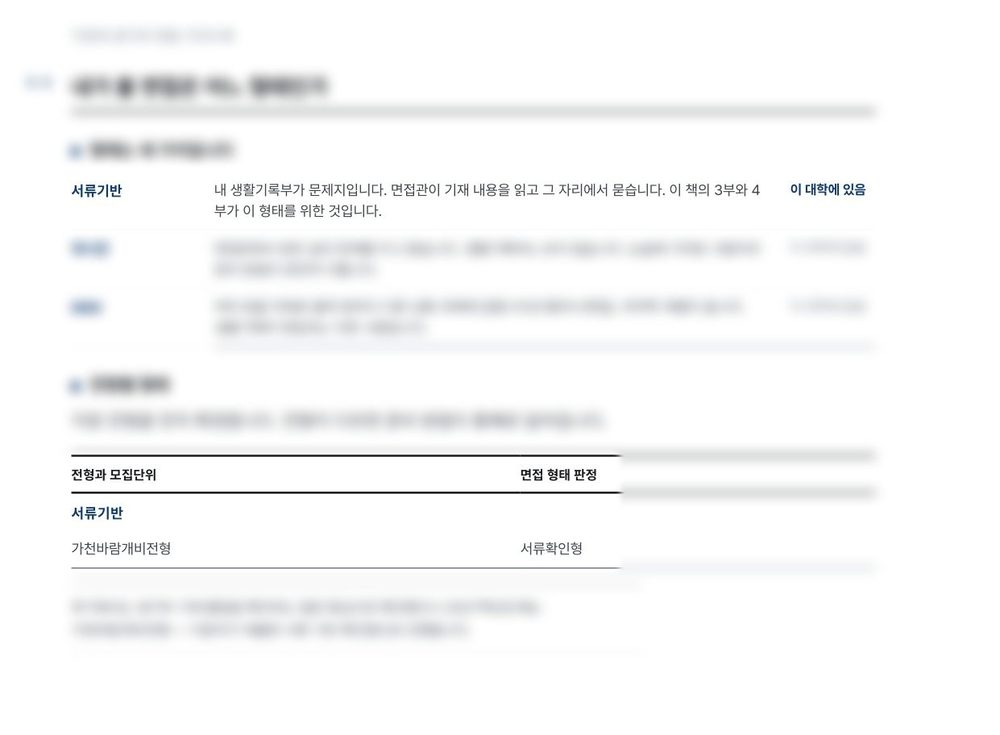
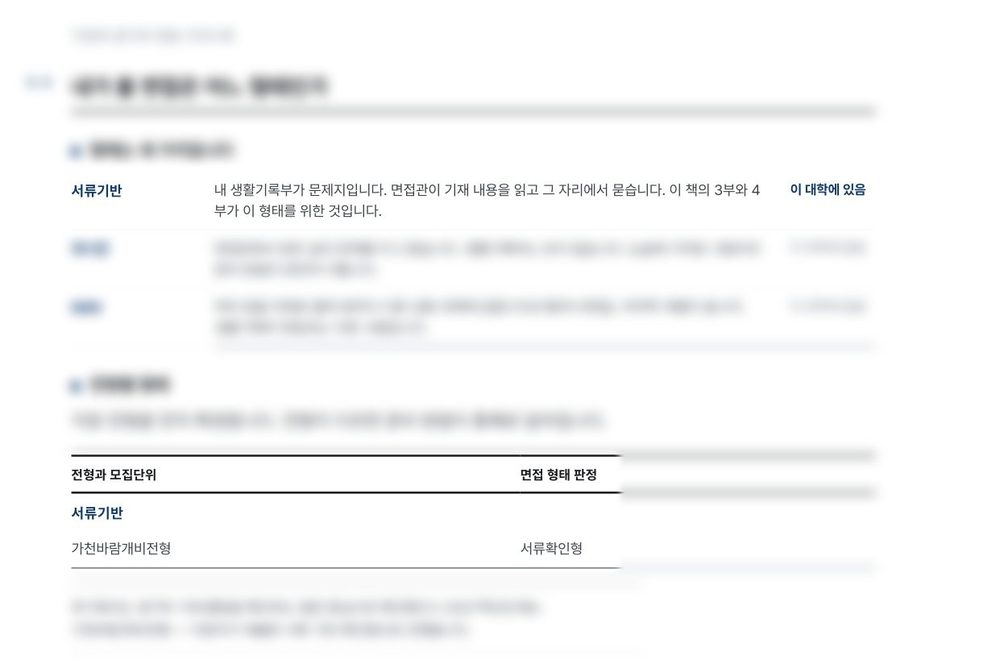
가이드북 소개 면 critic P2 수리: 배지를 선명 칸 오른쪽 바깥으로, 1·3·5부 면 열 7fr, 흐림 사유 캡션, 1부 크롭 0.47, 마무리 표지 확대, 死 CSS 제거 (빌드 4d42f90bccd9258a)

diff --git a/programs/guidebook.html b/programs/guidebook.html
@@ -90,7 +90,6 @@ p{max-width:var(--measure);color:var(--body)}
 
 /* 히어로 */
 .hero{position:relative;overflow:hidden;border-bottom:var(--rule)}
-.hero .bg{position:absolute;inset:0;width:100%;height:100%;object-fit:cover;object-position:right center}
 .hero::after{content:"";position:absolute;inset:0;background:linear-gradient(90deg,var(--paper) 0%,rgba(244,239,227,.97) 36%,rgba(244,239,227,.6) 56%,rgba(244,239,227,.06) 100%)}
 .hero .wrap{position:relative;z-index:2;display:grid;grid-template-columns:minmax(0,1.05fr) minmax(0,1fr);gap:var(--s6);align-items:center;min-height:min(80vh,800px);padding-block:var(--s8)}
 .hero .say{position:relative;z-index:3;padding-right:var(--s4)}
@@ -117,7 +116,6 @@ p{max-width:var(--measure);color:var(--body)}
 .split{display:grid;grid-template-columns:minmax(0,7fr) minmax(0,5fr);gap:var(--s7);align-items:start}
 .split.rev{grid-template-columns:minmax(0,5fr) minmax(0,7fr)}
 .split.rev .txt{order:2}
-.split img,.split .ph{width:100%;border-radius:var(--r-md)}
 .forms{display:grid;grid-template-columns:repeat(3,minmax(0,1fr));gap:var(--s3);margin-top:var(--s6)}
 .forms li{border:1px solid rgba(244,239,227,.22);border-radius:var(--r-md);padding:var(--s4)}
 .forms h4{font-size:var(--t-h4);margin-bottom:var(--s2)}
@@ -324,6 +322,10 @@ ol.lg{list-style:none;display:grid;gap:var(--s2);padding:0;margin:0}
 .closecovers{display:grid;grid-template-columns:repeat(3,minmax(0,1fr));gap:var(--s3)}
 .closecovers img{width:100%;height:auto;border-radius:2px;box-shadow:0 10px 24px rgba(49,46,46,.35)}
 .close .vis{align-self:center}
+/* critic P2(2026-09-03 v4): 비rev 부도 실물 면 열을 7fr 로(1·3·5부 397→555px). 마무리 표지는 잉크 바탕에서 보이게 */
+@media (min-width:901px){.part:not(.rev) .body{grid-template-columns:minmax(0,7fr) minmax(0,5fr)}}
+.closecovers{gap:var(--s2)}
+.closecovers img{box-shadow:0 14px 32px rgba(0,0,0,.55);outline:1px solid rgba(239,233,220,.16)}
 </style>
 </head>
 <body>
@@ -462,7 +464,7 @@ ol.lg{list-style:none;display:grid;gap:var(--s2);padding:0;margin:0}
       <div><h2>내 면접은 어느 형태인가</h2><p class="sub">서류기반 | 제시문 | MMI, 전형별 형태 판정</p></div>
     </div>
     <div class="body">
-      <div class="vis rv"><figure class="pgv"><div class="pg"><a href="../assets/photo/gbd/gbd_sample_D.jpg" target="_blank" rel="noopener" aria-label="표본 면 크게 보기"><img src="../assets/photo/gbd/gbd_sample_D.jpg" width="1000" height="735" alt="가천대학교 판 4면 상단, 1부 면접 형태 판정 면. 표시한 2칸만 선명하고 나머지는 흐림" loading="lazy" decoding="async"></a><span class="mk" style="left:5.96%;top:27.08%" aria-hidden="true">1</span><span class="mk" style="left:5.96%;top:69.62%" aria-hidden="true">2</span></div><figcaption><span class="cap">판매본 지면 그대로. 가천대학교 판 4면 상단, 1부 면접 형태 판정 면</span><ol class="lg"><li><span class="n">1</span><p>세 형태 중 서류기반. 정의와 이 대학에 있음 표시</p></li><li><span class="n">2</span><p>전형별 형태 판정표. 가천바람개비전형은 서류확인형</p></li></ol></figcaption></figure></div>
+      <div class="vis rv"><figure class="pgv"><div class="pg"><a href="../assets/photo/gbd/gbd_sample_D.jpg" target="_blank" rel="noopener" aria-label="표본 면 크게 보기"><img src="../assets/photo/gbd/gbd_sample_D.jpg" width="1000" height="664" alt="가천대학교 판 4면 상단, 1부 면접 형태 판정 면. 표시한 2칸만 선명하고 나머지는 흐림" loading="lazy" decoding="async"></a><span class="mk" style="left:90.03%;top:29.96%" aria-hidden="true">1</span><span class="mk" style="left:64.16%;top:77.03%" aria-hidden="true">2</span></div><figcaption><span class="cap">판매본 지면 그대로. 가천대학교 판 4면 상단, 1부 면접 형태 판정 면. 번호 칸만 원문이고 나머지는 판매본 보호를 위해 흐림</span><ol class="lg"><li><span class="n">1</span><p>세 형태 중 서류기반. 정의와 이 대학에 있음 표시</p></li><li><span class="n">2</span><p>전형별 형태 판정표. 가천바람개비전형은 서류확인형</p></li></ol></figcaption></figure></div>
       <div class="txt rv">
         <div class="blk"><h3>이 부에 들어 있는 것</h3>
           <ul>
@@ -495,7 +497,7 @@ ol.lg{list-style:none;display:grid;gap:var(--s2);padding:0;margin:0}
       <div><h2>이 대학은 무엇을 묻는가</h2><p class="sub">전형별 제원 | 이 대학이 찾는 학생</p></div>
     </div>
     <div class="body">
-      <div class="vis rv"><figure class="pgv"><div class="pg"><a href="../assets/photo/gbd/gbd_sample_E.jpg" target="_blank" rel="noopener" aria-label="표본 면 크게 보기"><img src="../assets/photo/gbd/gbd_sample_E.jpg" width="1000" height="1413" alt="가천대학교 판 7면, 2부 학과별 인재상 면. 표시한 2칸만 선명하고 나머지는 흐림" loading="lazy" decoding="async"></a><span class="mk" style="left:11.20%;top:8.15%" aria-hidden="true">1</span><span class="mk" style="left:11.12%;top:21.55%" aria-hidden="true">2</span></div><figcaption><span class="cap">판매본 지면 그대로. 가천대학교 판 7면, 2부 학과별 인재상 면</span><ol class="lg"><li><span class="n">1</span><p>확인 질문에서 역추론한 학과별 초점. 질문 5건 이상 확인된 36개 학과 수록</p></li><li><span class="n">2</span><p>간호학과 82건. 확인하는 것과 실제 질문 두 건</p></li></ol></figcaption></figure></div>
+      <div class="vis rv"><figure class="pgv"><div class="pg"><a href="../assets/photo/gbd/gbd_sample_E.jpg" target="_blank" rel="noopener" aria-label="표본 면 크게 보기"><img src="../assets/photo/gbd/gbd_sample_E.jpg" width="1000" height="1413" alt="가천대학교 판 7면, 2부 학과별 인재상 면. 표시한 2칸만 선명하고 나머지는 흐림" loading="lazy" decoding="async"></a><span class="mk" style="left:85.84%;top:8.15%" aria-hidden="true">1</span><span class="mk" style="left:43.70%;top:21.55%" aria-hidden="true">2</span></div><figcaption><span class="cap">판매본 지면 그대로. 가천대학교 판 7면, 2부 학과별 인재상 면. 번호 칸만 원문이고 나머지는 판매본 보호를 위해 흐림</span><ol class="lg"><li><span class="n">1</span><p>확인 질문에서 역추론한 학과별 초점. 질문 5건 이상 확인된 36개 학과 수록</p></li><li><span class="n">2</span><p>간호학과 82건. 확인하는 것과 실제 질문 두 건</p></li></ol></figcaption></figure></div>
       <div class="txt rv">
         <div class="blk"><h3>이 부에 들어 있는 것</h3>
           <ul>
@@ -528,7 +530,7 @@ ol.lg{list-style:none;display:grid;gap:var(--s2);padding:0;margin:0}
       <div><h2>실제로 나온 질문</h2><p class="sub">선배 후기에서 회수한 기출, 유형별, 모집단위와 연도</p></div>
     </div>
     <div class="body">
-      <div class="vis rv"><figure class="pgv"><div class="pg"><a href="../assets/photo/gbd/gbd_sample_B.jpg" target="_blank" rel="noopener" aria-label="표본 면 크게 보기"><img src="../assets/photo/gbd/gbd_sample_B.jpg" width="1000" height="1413" alt="가천대학교 판 14면, 3부 실제로 나온 질문 면. 표시한 3칸만 선명하고 나머지는 흐림" loading="lazy" decoding="async"></a><span class="mk" style="left:5.96%;top:21.63%" aria-hidden="true">1</span><span class="mk" style="left:5.96%;top:62.52%" aria-hidden="true">2</span><span class="mk" style="left:5.96%;top:79.45%" aria-hidden="true">3</span></div><figcaption><span class="cap">판매본 지면 그대로. 가천대학교 판 14면, 3부 실제로 나온 질문 면</span><ol class="lg"><li><span class="n">1</span><p>유형 이름과 질문. 끝의 작은 글씨가 모집단위와 연도</p></li><li><span class="n">2</span><p>전공지식확인 91건, 17.9%. 첫 두 질문</p></li><li><span class="n">3</span><p>한 줄 질문. 전자공학과, 2021년</p></li></ol></figcaption></figure></div>
+      <div class="vis rv"><figure class="pgv"><div class="pg"><a href="../assets/photo/gbd/gbd_sample_B.jpg" target="_blank" rel="noopener" aria-label="표본 면 크게 보기"><img src="../assets/photo/gbd/gbd_sample_B.jpg" width="1000" height="1413" alt="가천대학교 판 14면, 3부 실제로 나온 질문 면. 표시한 3칸만 선명하고 나머지는 흐림" loading="lazy" decoding="async"></a><span class="mk" style="left:57.07%;top:21.63%" aria-hidden="true">1</span><span class="mk" style="left:63.84%;top:62.52%" aria-hidden="true">2</span><span class="mk" style="left:48.69%;top:79.45%" aria-hidden="true">3</span></div><figcaption><span class="cap">판매본 지면 그대로. 가천대학교 판 14면, 3부 실제로 나온 질문 면. 번호 칸만 원문이고 나머지는 판매본 보호를 위해 흐림</span><ol class="lg"><li><span class="n">1</span><p>유형 이름과 질문. 끝의 작은 글씨가 모집단위와 연도</p></li><li><span class="n">2</span><p>전공지식확인 91건, 17.9%. 첫 두 질문</p></li><li><span class="n">3</span><p>한 줄 질문. 전자공학과, 2021년</p></li></ol></figcaption></figure></div>
       <div class="txt rv">
         <div class="blk"><h3>이 부에 들어 있는 것</h3>
           <ul>
@@ -560,7 +562,7 @@ ol.lg{list-style:none;display:grid;gap:var(--s2);padding:0;margin:0}
       <div><p class="kicker">이 책의 본론</p><h2>내 생기부에서 질문 뽑기</h2><p class="sub">생기부 기재를 질문으로 바꾸는 규칙</p></div>
     </div>
     <div class="body">
-      <div class="vis rv"><figure class="pgv"><div class="pg"><a href="../assets/photo/gbd/gbd_sample_F.jpg" target="_blank" rel="noopener" aria-label="표본 면 크게 보기"><img src="../assets/photo/gbd/gbd_sample_F.jpg" width="1000" height="1413" alt="가천대학교 판 22면, 4부 창의적 체험활동 규칙 면. 표시한 2칸만 선명하고 나머지는 흐림" loading="lazy" decoding="async"></a><span class="mk" style="left:5.96%;top:11.63%" aria-hidden="true">1</span><span class="mk" style="left:7.74%;top:26.20%" aria-hidden="true">2</span></div><figcaption><span class="cap">판매본 지면 그대로. 가천대학교 판 22면, 4부 창의적 체험활동 규칙 면</span><ol class="lg"><li><span class="n">1</span><p>영역 이름과 규칙 한 건. 전교 회장, 부회장 기재 때의 질문 틀, 꼬리질문, 평가 축</p></li><li><span class="n">2</span><p>영재학급, 심화과정 기재 때의 규칙</p></li></ol></figcaption></figure></div>
+      <div class="vis rv"><figure class="pgv"><div class="pg"><a href="../assets/photo/gbd/gbd_sample_F.jpg" target="_blank" rel="noopener" aria-label="표본 면 크게 보기"><img src="../assets/photo/gbd/gbd_sample_F.jpg" width="1000" height="1413" alt="가천대학교 판 22면, 4부 창의적 체험활동 규칙 면. 표시한 2칸만 선명하고 나머지는 흐림" loading="lazy" decoding="async"></a><span class="mk" style="left:70.53%;top:11.63%" aria-hidden="true">1</span><span class="mk" style="left:69.89%;top:26.20%" aria-hidden="true">2</span></div><figcaption><span class="cap">판매본 지면 그대로. 가천대학교 판 22면, 4부 창의적 체험활동 규칙 면. 번호 칸만 원문이고 나머지는 판매본 보호를 위해 흐림</span><ol class="lg"><li><span class="n">1</span><p>영역 이름과 규칙 한 건. 전교 회장, 부회장 기재 때의 질문 틀, 꼬리질문, 평가 축</p></li><li><span class="n">2</span><p>영재학급, 심화과정 기재 때의 규칙</p></li></ol></figcaption></figure></div>
       <div class="txt rv">
         <div class="blk"><h3>이 부에 들어 있는 것</h3>
           <ul>
@@ -575,7 +577,7 @@ ol.lg{list-style:none;display:grid;gap:var(--s2);padding:0;margin:0}
     <div class="sample pgs rv">
           <div class="cap"><span>판매본 지면 한 면 그대로, 4부 교과학습 규칙 면</span><span>가천대학교 판 18면</span></div>
           <div class="pgcols">
-            <figure class="pg"><a href="../assets/photo/gbd/gbd_sample_A.jpg" target="_blank" rel="noopener" aria-label="표본 면 크게 보기"><img src="../assets/photo/gbd/gbd_sample_A.jpg" width="1241" height="1754" alt="가천대학교 판 18면, 4부 교과학습 규칙 면. 표시한 2칸만 선명하고 나머지는 흐림" loading="lazy" decoding="async"></a><span class="mk" style="left:5.96%;top:12.71%" aria-hidden="true">1</span><span class="mk" style="left:5.96%;top:58.41%" aria-hidden="true">2</span></figure>
+            <figure class="pg"><a href="../assets/photo/gbd/gbd_sample_A.jpg" target="_blank" rel="noopener" aria-label="표본 면 크게 보기"><img src="../assets/photo/gbd/gbd_sample_A.jpg" width="1241" height="1754" alt="가천대학교 판 18면, 4부 교과학습 규칙 면. 표시한 2칸만 선명하고 나머지는 흐림" loading="lazy" decoding="async"></a><span class="mk" style="left:75.53%;top:12.71%" aria-hidden="true">1</span><span class="mk" style="left:75.53%;top:58.41%" aria-hidden="true">2</span></figure>
             <div class="lg">
               <ol><li><span class="n">1</span><p>영역 이름과 규칙 한 건. 언제, 질문 틀, 꼬리질문, 평가 축</p></li><li><span class="n">2</span><p>실험 기재가 있을 때의 규칙. 4부 표본으로 든 그 규칙</p></li></ol>
               <figure class="zoom"><img src="../assets/photo/gbd/gbd_sample_A_zoom.jpg" width="696" height="360" alt="표본 면 2번 칸 확대" loading="lazy" decoding="async"><figcaption>2번 칸 확대</figcaption></figure>
@@ -600,7 +602,7 @@ ol.lg{list-style:none;display:grid;gap:var(--s2);padding:0;margin:0}
       <div><h2>이 대학의 특징과 준비 전략</h2><p class="sub">타 대학 대비 차이 | 준비 전략</p></div>
     </div>
     <div class="body">
-      <div class="vis rv"><figure class="pgv"><div class="pg"><a href="../assets/photo/gbd/gbd_sample_C.jpg" target="_blank" rel="noopener" aria-label="표본 면 크게 보기"><img src="../assets/photo/gbd/gbd_sample_C.jpg" width="1000" height="1413" alt="가천대학교 판 31면, 5부 준비 전략 면. 표시한 3칸만 선명하고 나머지는 흐림" loading="lazy" decoding="async"></a><span class="mk" style="left:5.96%;top:13.65%" aria-hidden="true">1</span><span class="mk" style="left:10.88%;top:62.15%" aria-hidden="true">2</span><span class="mk" style="left:10.88%;top:84.84%" aria-hidden="true">3</span></div><figcaption><span class="cap">판매본 지면 그대로. 가천대학교 판 31면, 5부 준비 전략 면</span><ol class="lg"><li><span class="n">1</span><p>절 제목</p></li><li><span class="n">2</span><p>40초 답변 훈련. 근거가 붙은 행동 한 줄</p></li><li><span class="n">3</span><p>꼬리질문 2단 대비. 확인된 꼬리 15건에서 나온 규칙</p></li></ol></figcaption></figure></div>
+      <div class="vis rv"><figure class="pgv"><div class="pg"><a href="../assets/photo/gbd/gbd_sample_C.jpg" target="_blank" rel="noopener" aria-label="표본 면 크게 보기"><img src="../assets/photo/gbd/gbd_sample_C.jpg" width="1000" height="1413" alt="가천대학교 판 31면, 5부 준비 전략 면. 표시한 3칸만 선명하고 나머지는 흐림" loading="lazy" decoding="async"></a><span class="mk" style="left:48.69%;top:13.65%" aria-hidden="true">1</span><span class="mk" style="left:90.68%;top:62.15%" aria-hidden="true">2</span><span class="mk" style="left:90.68%;top:84.84%" aria-hidden="true">3</span></div><figcaption><span class="cap">판매본 지면 그대로. 가천대학교 판 31면, 5부 준비 전략 면. 번호 칸만 원문이고 나머지는 판매본 보호를 위해 흐림</span><ol class="lg"><li><span class="n">1</span><p>절 제목</p></li><li><span class="n">2</span><p>40초 답변 훈련. 근거가 붙은 행동 한 줄</p></li><li><span class="n">3</span><p>꼬리질문 2단 대비. 확인된 꼬리 15건에서 나온 규칙</p></li></ol></figcaption></figure></div>
       <div class="txt rv">
         <div class="blk"><h3>이 부에 들어 있는 것</h3>
           <ul>

diff --git a/_design/guidebook_detail_20260903/build/build_page.py b/_design/guidebook_detail_20260903/build/build_page.py
@@ -112,7 +112,7 @@ OPEN = '\n'.join(
     f'<li class="rv"><img src="{data_uri(PG / (f + ".jpg"), 720, 80, name="gbd_" + f)[0]}" width="360" height="509" alt="{cap}" loading="lazy" decoding="async"><span>{cap}</span></li>'
     for f, cap in OPENERS)
 
-PART_CROP = {'D': 0.52}   # 1부 p4 는 본문이 상단 45% 에서 끝나는 짧은 면. 아래 빈 여백을 잘라 상단만 싣는다(문구에 '상단' 병기)
+PART_CROP = {'D': 0.47}   # 1부 p4 는 본문이 상단 45% 에서 끝나는 짧은 면. 아래 빈 여백을 잘라 상단만 싣는다(문구에 '상단' 병기)
 
 
 def part_vis(key):
@@ -127,8 +127,8 @@ def part_vis(key):
         im.save(src, 'JPEG', quality=90, optimize=True)
     uri, (w, h) = data_uri(src, 1000, 82, name=f'gbd_sample_{key}')
     regs = reg['regions']
-    marks = ''.join(f'<span class="mk" style="left:{r["x"]:.2f}%;top:{(r["y"] + r["h"] / 2) / crop:.2f}%" aria-hidden="true">{i + 1}</span>'
-                    for i, r in enumerate(regs))
+    marks = ''.join(f'<span class="mk" style="left:{min(r["x"] + r["w"] + 2.2, 95):.2f}%;top:{(r["y"] + r["h"] / 2) / crop:.2f}%" aria-hidden="true">{i + 1}</span>'
+                    for i, r in enumerate(regs))   # critic P2: 칸 왼쪽 가장자리에 두면 첫 글자를 덮는다 → 칸 오른쪽 바깥 흐림 구역
     legend = ''.join(f'<li><span class="n">{i + 1}</span><p>{r["label"]}</p></li>' for i, r in enumerate(regs))
     n = len(regs)
     where = f'가천대학교 판 {reg["page"]}면' + (' 상단' if crop < 1 else '')
@@ -136,7 +136,7 @@ def part_vis(key):
     if MODE == 'site':
         img = f'<a href="{uri}" target="_blank" rel="noopener" aria-label="표본 면 크게 보기">{img}</a>'
     return (f'<figure class="pgv"><div class="pg">{img}{marks}</div>'
-            f'<figcaption><span class="cap">판매본 지면 그대로. {where}, {reg["title"]}</span><ol class="lg">{legend}</ol></figcaption></figure>')
+            f'<figcaption><span class="cap">판매본 지면 그대로. {where}, {reg["title"]}. 번호 칸만 원문이고 나머지는 판매본 보호를 위해 흐림</span><ol class="lg">{legend}</ol></figcaption></figure>')
 
 
 def sample_block(key):
@@ -147,7 +147,7 @@ def sample_block(key):
     regs = reg['regions']
     zy = (reg['zoom']['rect_pt'][1] - 7) / 841.89 * 100
     zi = min(range(len(regs)), key=lambda i: abs(regs[i]['y'] - zy)) + 1
-    marks = ''.join(f'<span class="mk" style="left:{r["x"]:.2f}%;top:{r["y"] + r["h"] / 2:.2f}%" aria-hidden="true">{i + 1}</span>'
+    marks = ''.join(f'<span class="mk" style="left:{min(r["x"] + r["w"] + 2.2, 95):.2f}%;top:{r["y"] + r["h"] / 2:.2f}%" aria-hidden="true">{i + 1}</span>'
                     for i, r in enumerate(regs))
     legend = ''.join(f'<li><span class="n">{i + 1}</span><p>{r["label"]}</p></li>' for i, r in enumerate(regs))
     n = len(regs)
@@ -232,7 +232,6 @@ p{max-width:var(--measure);color:var(--body)}
 
 /* 히어로 */
 .hero{position:relative;overflow:hidden;border-bottom:var(--rule)}
-.hero .bg{position:absolute;inset:0;width:100%;height:100%;object-fit:cover;object-position:right center}
 .hero::after{content:"";position:absolute;inset:0;background:linear-gradient(90deg,var(--paper) 0%,rgba(244,239,227,.97) 36%,rgba(244,239,227,.6) 56%,rgba(244,239,227,.06) 100%)}
 .hero .wrap{position:relative;z-index:2;display:grid;grid-template-columns:minmax(0,1.05fr) minmax(0,1fr);gap:var(--s6);align-items:center;min-height:min(80vh,800px);padding-block:var(--s8)}
 .hero .say{position:relative;z-index:3;padding-right:var(--s4)}
@@ -259,7 +258,6 @@ p{max-width:var(--measure);color:var(--body)}
 .split{display:grid;grid-template-columns:minmax(0,7fr) minmax(0,5fr);gap:var(--s7);align-items:start}
 .split.rev{grid-template-columns:minmax(0,5fr) minmax(0,7fr)}
 .split.rev .txt{order:2}
-.split img,.split .ph{width:100%;border-radius:var(--r-md)}
 .forms{display:grid;grid-template-columns:repeat(3,minmax(0,1fr));gap:var(--s3);margin-top:var(--s6)}
 .forms li{border:1px solid rgba(244,239,227,.22);border-radius:var(--r-md);padding:var(--s4)}
 .forms h4{font-size:var(--t-h4);margin-bottom:var(--s2)}
@@ -466,6 +464,10 @@ ol.lg{list-style:none;display:grid;gap:var(--s2);padding:0;margin:0}
 .closecovers{display:grid;grid-template-columns:repeat(3,minmax(0,1fr));gap:var(--s3)}
 .closecovers img{width:100%;height:auto;border-radius:2px;box-shadow:0 10px 24px rgba(49,46,46,.35)}
 .close .vis{align-self:center}
+/* critic P2(2026-09-03 v4): 비rev 부도 실물 면 열을 7fr 로(1·3·5부 397→555px). 마무리 표지는 잉크 바탕에서 보이게 */
+@media (min-width:901px){.part:not(.rev) .body{grid-template-columns:minmax(0,7fr) minmax(0,5fr)}}
+.closecovers{gap:var(--s2)}
+.closecovers img{box-shadow:0 14px 32px rgba(0,0,0,.55);outline:1px solid rgba(239,233,220,.16)}
 """
 
 HTML = r"""<!DOCTYPE html>
